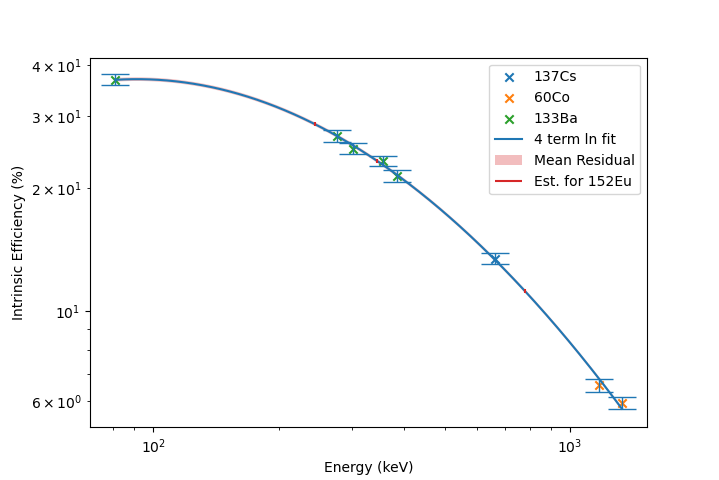
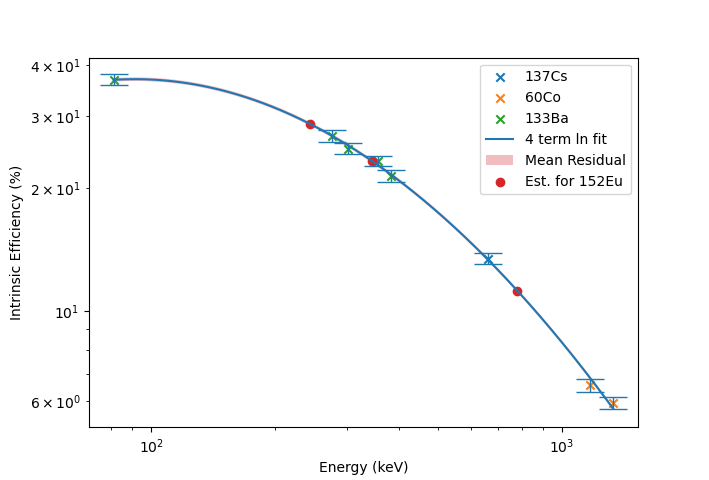
minor revisions to figure and adding a reference

diff --git a/report7/spec_anal.py b/report7/spec_anal.py
@@ -349,11 +349,12 @@ for iso in known_isos:
         E, eff, err, A = abs_eff(iso, E)
         ieff = eff / GEOM_ATTEN
         ierr = ieff * ((err/eff)**2 + (GEOM_ERROR/GEOM_ATTEN)**2)**0.5
+        hl_y = half_lives_y[iso]
         # print(f"Absolute efficiency at {E} keV: {eff:.5f} +- {err:.5f}")
         # print(f"Geometric efficiency of {GEOM_ATTEN:.5f} +- {GEOM_ERROR:.5f}")
         # print(f"--> Intrinsic efficiency @ {E} keV: {ieff:.5f} +- {ierr:.5f}")
         A_micCi = A / MICROCURIE
-        print(f"{latex_labels[iso]} & {E} & ${int(N)} \\pm {int(N_err)}$ & {BF:.4f} & {jBR:.4f} & {A_micCi:.3f} & ${ieff:.5f} \\pm {ierr:.5f}$ \\\\")
+        print(f"{latex_labels[iso]} & {E} & ${int(N)} \\pm {int(N_err)}$ & {BF:.1f} & {jBR:.3f} & {hl_y:.3f} & {A_micCi:.3f} & ${ieff:.4f} \\pm {ierr:.4f}$ \\\\")
         E_list.append(E)
         all_E.append(E)
         aeff_list.append(eff)
@@ -411,18 +412,18 @@ for peak in id_peaks["EuUnknown"]:
 
     Eu_Es.append(E_Eu)
     Eu_effs.append(aeff_Eu)
-    print("_"*30)
-    print(f"Efficiency @ {E_Eu} keV: {aeff_Eu:.5f} +- {aeff_err:.5f}")
+    # print("_"*30)
+    # print(f"Efficiency @ {E_Eu} keV: {aeff_Eu:.5f} +- {aeff_err:.5f}")
     # eff = N / S
     N_Eu = int(dat_Eu[1].split(",")[2])
     Nerr_Eu = int(dat_Eu[1].split(",")[3])
     
     S_Eu = int(N_Eu / aeff_Eu)
     Serr_Eu = S_Eu * ((Nerr_Eu / N_Eu)**2 + (aeff_err/aeff_Eu)**2)**0.5
-    print(f"152Eu @ {E_Eu} keV: N = {N_Eu} +- {Nerr_Eu} -> S = {S_Eu} +- {Serr_Eu}")
+    # print(f"152Eu @ {E_Eu} keV: N = {N_Eu} +- {Nerr_Eu} -> S = {S_Eu} +- {Serr_Eu}")
     # S = A * T * TBF
     
-    print(f"{E_Eu} & ${N_Eu} \\pm {Nerr_Eu} & ${aeff_Eu:.5f} \\pm {aeff_err:.5f}$")
+    
     
     
     BF_Eu = float(dat_Eu[2].split(",")[0]) / 100
@@ -430,9 +431,12 @@ for peak in id_peaks["EuUnknown"]:
     TB_Eu = BF_Eu
     Time_Eu = 300
     A_Eu = S_Eu / (TB_Eu * Time_Eu)
+    A_micCi = A_Eu / MICROCURIE
     A_Eu_err = Serr_Eu / (TB_Eu * Time_Eu)
+    A_micCi_err = A_Eu_err / MICROCURIE
     Eu_As.append(A_Eu)
     Eu_A_errs.append(A_Eu_err)
+    print(f"{E_Eu} & ${N_Eu} \\pm {Nerr_Eu}$ & ${aeff_Eu:.5f} \\pm {aeff_err:.5f}$ & ${A_micCi:.5f} \\pm {A_micCi_err:.5f}$ \\\\")
     # A_Eu = np.array([S_Eu-Serr_Eu, S_Eu, S_Eu+Serr_Eu]) / (TB_Eu * Time_Eu)
     # decay_Eu = A_Eu / OG_A_Eu
     # decays_Eu.append(decay_Eu[1])
@@ -444,7 +448,7 @@ for peak in id_peaks["EuUnknown"]:
 
 net_A = sum(Eu_As) / len(Eu_As)
 net_A_err = np.sqrt(sum(err**2 for err in Eu_A_errs)) / len(Eu_A_errs)
-print(f"Activity estimate: {int(net_A)} +- {net_A_err:.3f}")
+print(f"Activity estimate: ${net_A/MICROCURIE:.5f} \\pm {net_A_err/MICROCURIE:.5f}$~\miCi")
 OG_A_Eu = 10*MICROCURIE
 decay_Eu = net_A / OG_A_Eu
 decay_err = net_A_err / OG_A_Eu
@@ -453,7 +457,7 @@ ln_dec = np.log(decay_Eu)
 ln_dec_err = decay_err / decay_Eu
 elap_Eu = ln_dec / (-lamb_Eu)
 elap_err = ln_dec_err / (lamb_Eu)
-print(f"Final age estimate: {elap_Eu:.5f} +- {elap_err:.5f} years")
+print(f"Final age estimate: ${elap_Eu:.5f} \\pm {elap_err:.5f}$~years")
 
 Eu_Es = np.array(Eu_Es)
 Eu_ln_ieffs_base = poly(np.log(Eu_Es))
@@ -478,8 +482,12 @@ ieff_upper = np.exp(ln_ieff_fit+ln_ieff_fit_err)
 plt.plot(np.exp(ln_E_range), np.exp(ln_ieff_fit)*100, label=f"{N_TERMS} term ln fit")
 plt.fill_between(E_range, ieff_lower*100, ieff_upper*100, label="Mean Residual", alpha=0.3, zorder=-5)
 # plt.plot(np.exp(ln_E), np.exp(poly(ln_E))*100, label="Four term fit 2")
-# plt.scatter(np.array(Eu_Es), np.array(Eu_effs)*100/GEOM_ATTEN, label="Est. for 152Eu")
-plt.vlines(Eu_Es, Eu_ieffs_lower*100, Eu_ieffs_upper*100, label="Est. for 152Eu", color=f"C{len(known_isos)}")
+plt.scatter(np.array(Eu_Es), np.array(Eu_effs)*100/GEOM_ATTEN, label="Est. for 152Eu", color=f"C{len(known_isos)}")
+# plt.vlines(Eu_Es, Eu_ieffs_lower*100, Eu_ieffs_upper*100, label="Est. for 152Eu", color=f"C{len(known_isos)}")
+# (_, caps, _) = plt.errorbar(Eu_Es, np.exp(Eu_ln_ieffs_base), yerr=(Eu_ieffs_upper-Eu_ieffs_lower)/2, capsize=10, elinewidth=1, fmt="none")
+# for cap in caps:
+#     cap.set_color('black')
+#     cap.set_markeredgewidth(1)
 plt.ylabel("Intrinsic Efficiency (%)")
 plt.xlabel("Energy (keV)")
 plt.loglog()
